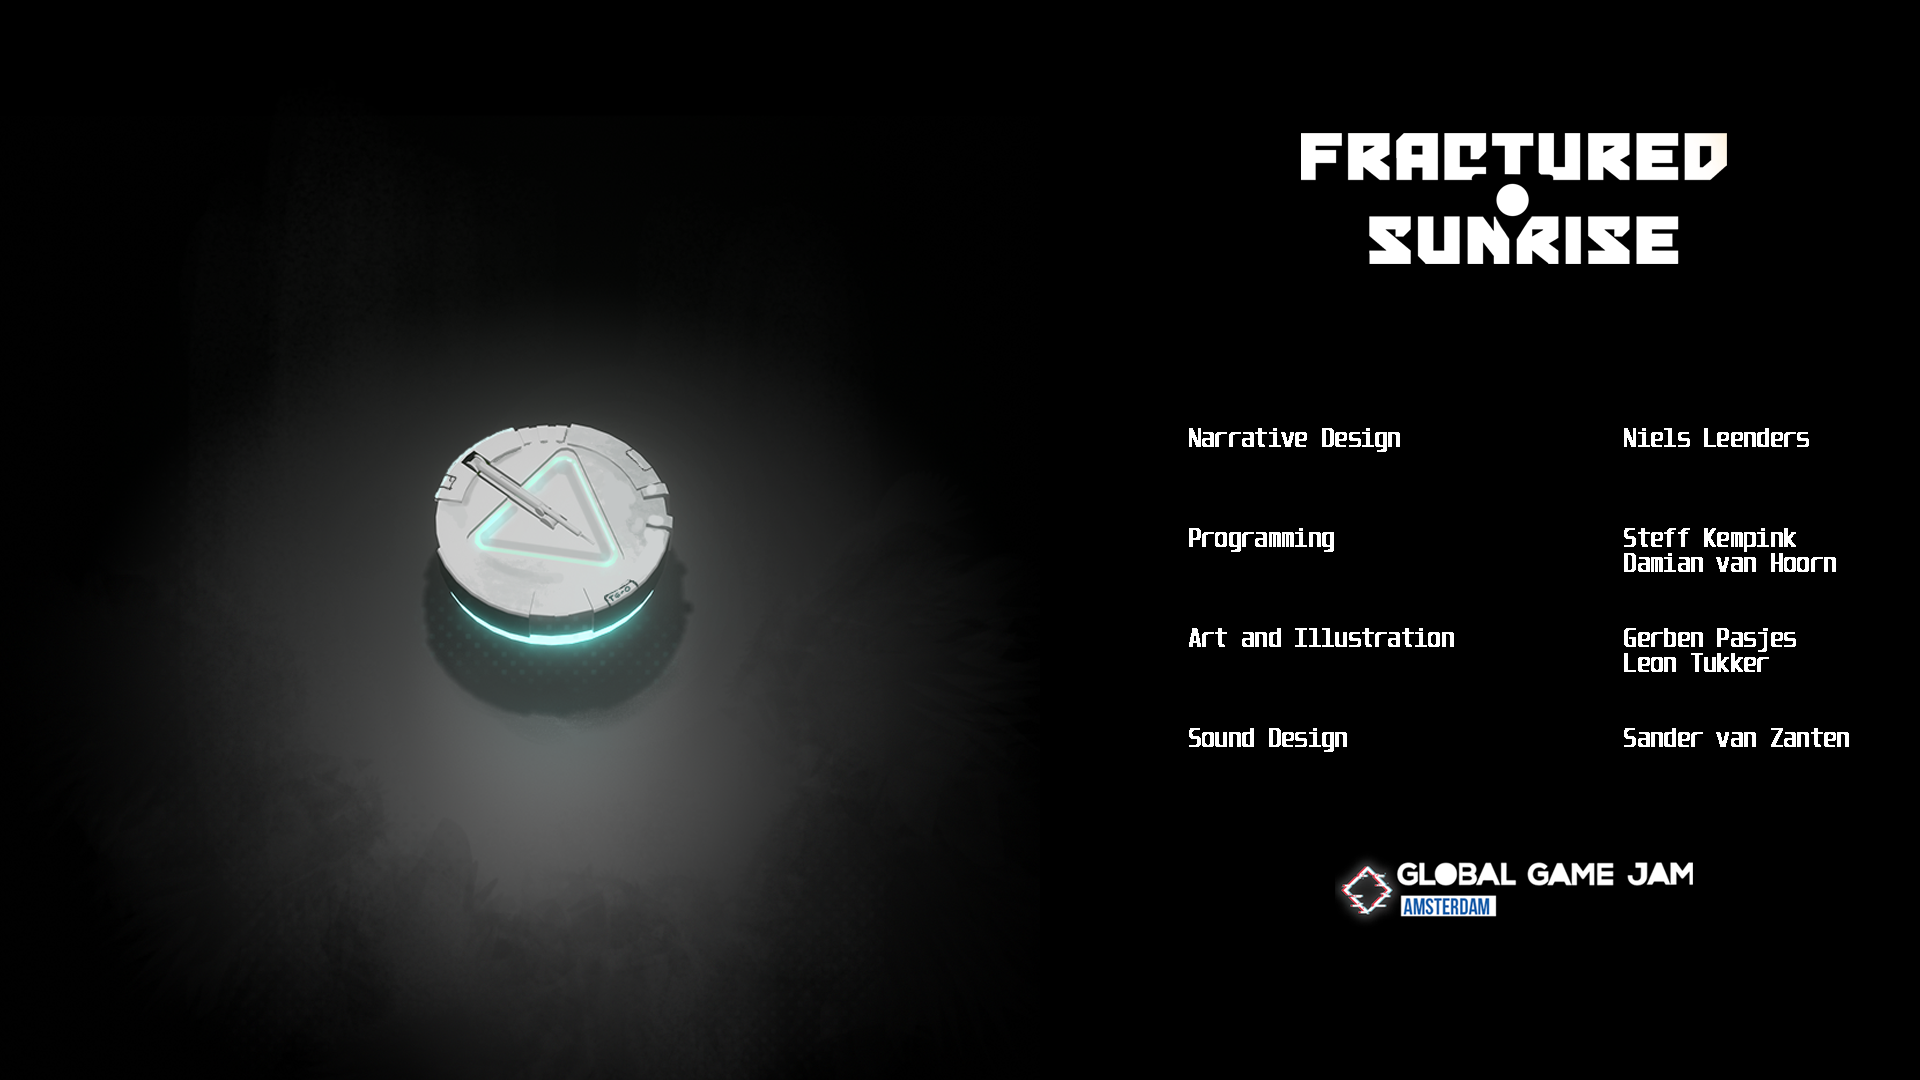
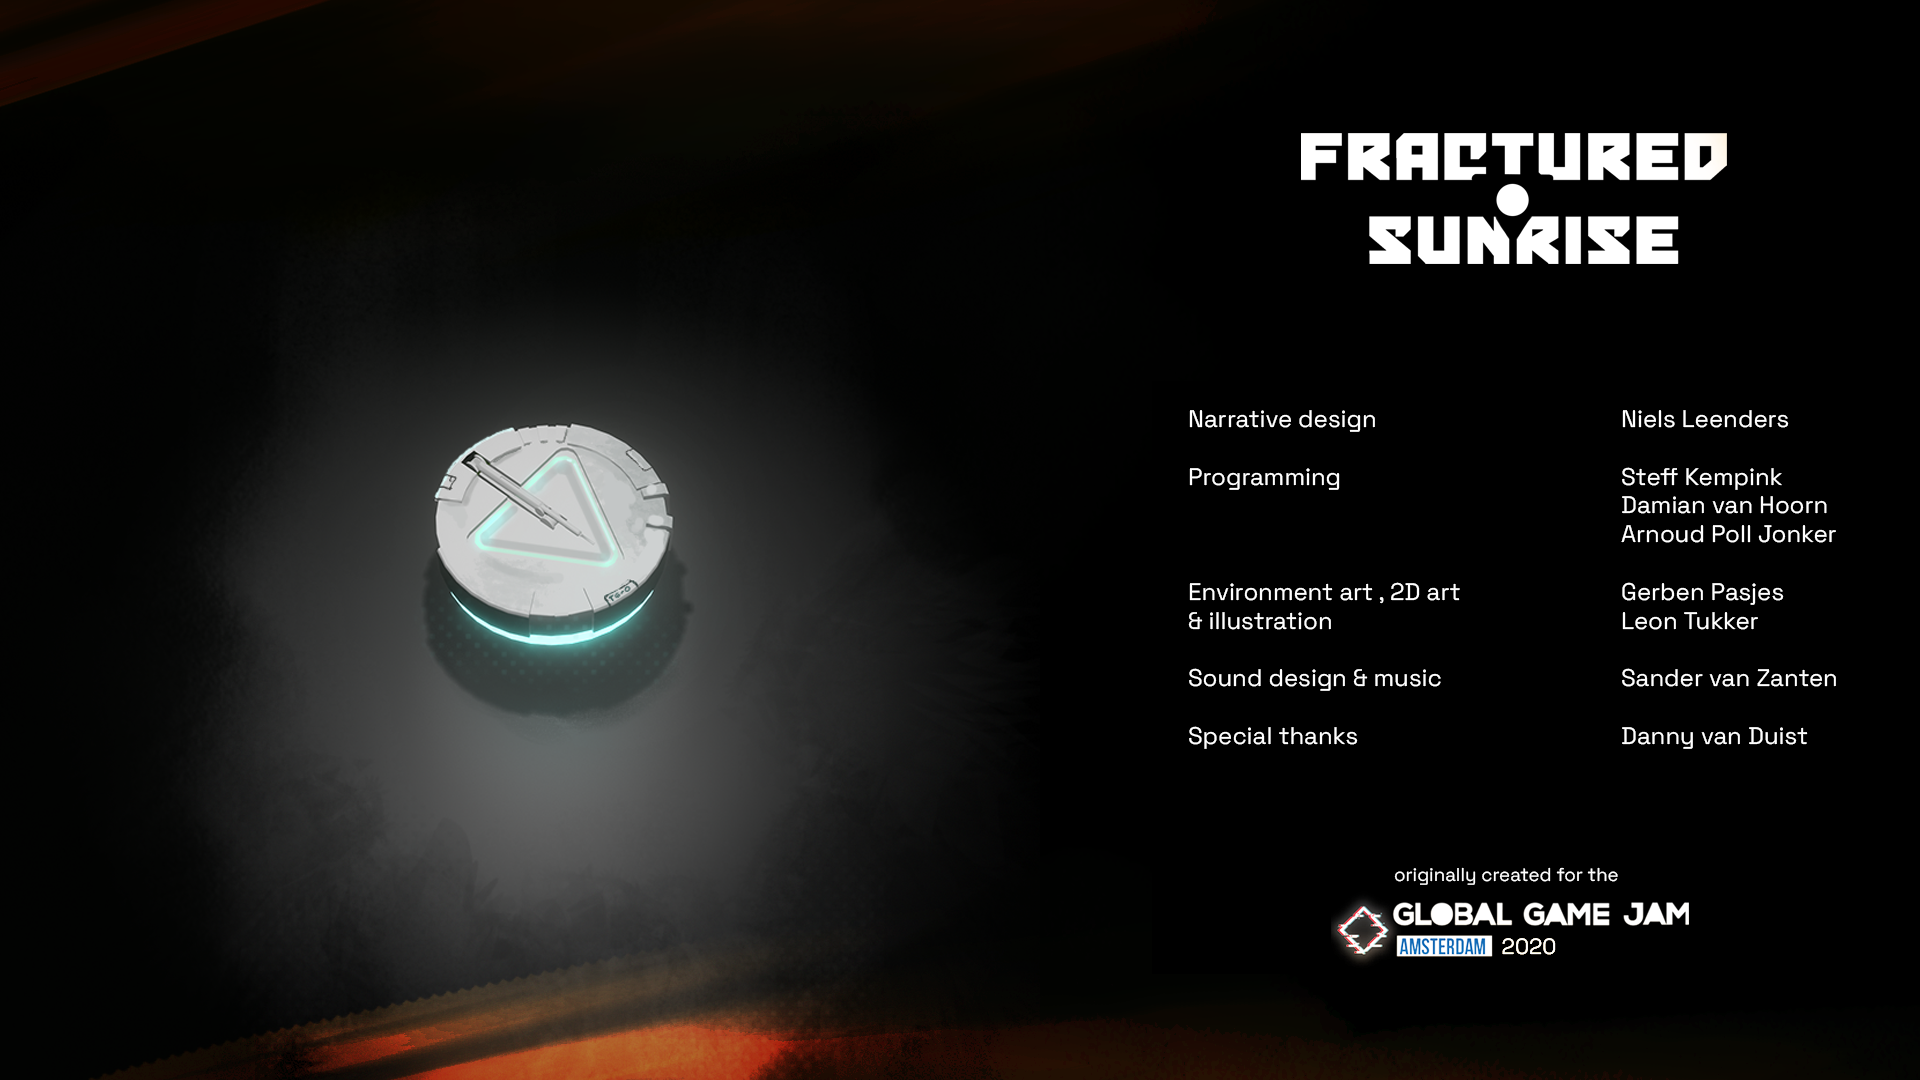
updated credit screens, start screen. fixed LED brightness. Rewrote sneakers on balcony.

diff --git a/GGJ2020_Unity/Assets/GGJ2020/StoryTools/Events/Shoes_A_1.cs b/GGJ2020_Unity/Assets/GGJ2020/StoryTools/Events/Shoes_A_1.cs
@@ -2,266 +2,15 @@ public class Shoes_Interaction : Event
 {
     public override void PlayEvent()
     {
-        Text = "This is SHOES. How can I help you?";
-        EventActor = Actors.Shoes();
-
-        {
-            var choice = NewChoice("CALLS");
-            choice.AddNextEvent<Shoes_CALLS_1>();
-        }
-        {
-            var choice = NewChoice("MESSAGES");
-            choice.AddNextEvent<Shoes_MESSAGES_1>();
-        }
-        {
-            var choice = NewChoice("SETTINGS");
-            choice.AddNextEvent<Shoes_SETTINGS_1>();
-        }
-    }
-}
-
-public class Shoes_MESSAGES_1 : Event
-{
-    public override void PlayEvent()
-    {
-        Text = "OPEN MESSAGE 7:\n13-07-2065 | 03:23\nUser Scott! The update came. I copied it for you: Great news, we’ve completed the analysis for your soul mate creation in the “Perfect Partner” program on “The Glass” Virtual Reality equipment. Return to your device as soon as possible to meet your future! I’m so excited for you, and the result is quite the reveal if I dare say. See you soon User Scott.";
-        EventActor = Actors.Shoes();
-
-        {
-            var choice = NewChoice("…");
-            choice.AddNextEvent<Shoes_MESSAGES_2>();
-        }
-    }
-}
-
-public class Shoes_MESSAGES_2 : Event
-{
-    public override void PlayEvent()
-    {
-        Text = "OPEN MESSAGE 6: FLYING DOUGH delivery\n12-07-2065 | 22:13\nCheck your front door/balcony/roof. You CHICKEN BBQ PIZZA has arrived at your residence. 400 credits will be subtracted from your account upon opening from the package.";
-        EventActor = Actors.Shoes();
-
-        {
-            var choice = NewChoice("…");
-            choice.AddNextEvent<Shoes_MESSAGES_3>();
-        }
-    }
-}
-
-public class Shoes_MESSAGES_3 : Event
-{
-    public override void PlayEvent()
-    {
-        Text = "OPEN MESSAGE 5: FLYING DOUGH delivery.\n11-07-2065 | 03:54\nCheck your front door/balcony/roof. You PEPPERONI PIZZA has arrived at your residence. 300 credits will be subtracted from your account upon opening from the package. ";
-        EventActor = Actors.Shoes();
-
-        {
-            var choice = NewChoice("…");
-            choice.AddNextEvent<Shoes_MESSAGES_4>();
-        }
-    }
-}
-
-public class Shoes_MESSAGES_4 : Event
-{
-    public override void PlayEvent()
-    {
-        Text = "OPEN MESSAGE 4: JEN [UNREAD]\nREALLY? Food is cold. And your double order has arrived. Nice of you to think for both of us. Pepperoni, your favorite. You can see your dinner from the balcony if you’re looking for it. I’m out for the night. ";
-        EventActor = Actors.Shoes();
-
-        {
-            var choice = NewChoice("…");
-            choice.AddNextEvent<Shoes_MESSAGES_5>();
-        }
-    }
-}
-
-public class Shoes_MESSAGES_5 : Event
-{
-    public override void PlayEvent()
-    {
-        Text = "OPEN MESSAGE 2: PERFECT PARTNER\n01-07-2065 | 11:52\nWe’re getting closer to the perfect match. Our latest iteration of your partner has improved your match by 3%, crossing the 90% line. The preferred green eye color and birthmarks help us greatly. Now for the last 10%!";
-        EventActor = Actors.Shoes();
-
-        {
-            var choice = NewChoice("…");
-            choice.AddNextEvent<Shoes_MESSAGES_6>();
-        }
-    }
-}
-
-public class Shoes_MESSAGES_6 : Event
-{
-    public override void PlayEvent()
-    {
-        Text = "OPEN MESSAGE 1: JEN [UNREAD]\n01-07-2065 | 09:13\nHi. Haven’t seen you for a while. How about dinner, just us. And something not out of a box or from the sky. Thai grill? Will be ready at 5. Love you.";
-        EventActor = Actors.Shoes();
-
-        {
-            var choice = NewChoice("…");
-            choice.AddNextEvent<Shoes_Interaction>();
-        }
-    }
-}
-
-public class Shoes_CALLS_1 : Event
-{
-    public override void PlayEvent()
-    {
-        Text = "CALL DATA: EMERGENCY SERVICES\n13-07-2065 | 04:53";
-        EventActor = Actors.Shoes();
-
-        {
-            var choice = NewChoice("…");
-            choice.AddNextEvent<Shoes_CALLS_2>();
-        }
-    }
-}
-
-public class Shoes_CALLS_2 : Event
-{
-    public override void PlayEvent()
-    {
-        Text = "CALL DATA: [speeddial 2] JEN [UNANSWERED]\n\n13-07-2065 | 04:32 | VOICEMAIL RECORDED\nMessage recorded 13th of July at 04:32, from Scott.";
-        EventActor = Actors.Shoes();
-
-        {
-            var choice = NewChoice("ANALYZE AUDIO FILE");
-            choice.AddNextEvent<Shoes_CALLS_3>();
-        }
-    }
-}
-
-public class Shoes_CALLS_3 : Event
-{
-    public override void PlayEvent()
-    {
-        Text = "Jen. I am so sorry about… about everything. I know I haven’t been there. There’s no excuse for missing out, and dinner last… [sighs] two weeks ago. My mind was somewhere else, you know. But I will be here now. I’m done with the VR stuff, the glass, with Alinna. You were always there, I see that now. When are you home? I will cook. No pizza, I promise. Jen? I didn’t know you were home. [phone falls] Jen?!\n\nMessage ended at 04:34.";
-        EventActor = Actors.Shoes();
-
-        {
-            var choice = NewChoice("…");
-            choice.AddNextEvent<Shoes_CALLS_4>();
-        }
-    }
-}
-
-
-public class Shoes_CALLS_4 : Event
-{
-    public override void PlayEvent()
-    {
-        Text = "CALL DATA: [speeddial 1] FLYING DOUCH pizza delivery\n12-07-2065 | 21:59";
-        EventActor = Actors.Shoes();
-
-        {
-            var choice = NewChoice("…");
-            choice.AddNextEvent<Shoes_CALLS_5>();
-        }
-    }
-}
-
-public class Shoes_CALLS_5 : Event
-{
-    public override void PlayEvent()
-    {
-        Text = "CALL DATA: [speeddial 1] FLYING DOUCH pizza delivery\n11-07-2065 | 03:23";
-        EventActor = Actors.Shoes();
-
-        {
-            var choice = NewChoice("…");
-            choice.AddNextEvent<Shoes_CALLS_6>();
-        }
-    }
-}
-
-public class Shoes_CALLS_6 : Event
-{
-    public override void PlayEvent()
-    {
-        Text = "CALL DATA: [speeddial 1] FLYING DOUCH pizza delivery\n01-07-2065 | 17:34";
-        EventActor = Actors.Shoes();
-
-        {
-            var choice = NewChoice("…");
-            choice.AddNextEvent<Shoes_Interaction>();
-        }
-    }
-}
-
-public class Shoes_SETTINGS_1 : Event
-{
-    public override void PlayEvent()
-    {
-        Text = "SETTINGS";
-        EventActor = Actors.Shoes();
-
-        {
-            var choice = NewChoice("ERASE USER DATA");
-            choice.AddNextEvent<Shoes_SETTINGS_2>();
-        }
-    }
-}
-
-public class Shoes_SETTINGS_2 : Event
-{
-    public override void PlayEvent()
-    {
-        Text = "All messages and call data will be erased. Are you sure you want to proceed?";
-        EventActor = Actors.Shoes();
-
-        {
-            var choice = NewChoice("PROCEED");
-            choice.AddNextEvent<Shoes_SETTINGS_3_A>();
-        }
-        {
-            var choice = NewChoice("CANCEL");
-            choice.AddNextEvent<Shoes_SETTINGS_3_B>();
-        }
-    }
-}
-
-public class Shoes_SETTINGS_3_A : Event
-{
-    public override void PlayEvent()
-    {
-        Text = "Please wait when your memories are being erased…\nDone.\nYour phone is a clean slate. ";
-        EventActor = Actors.Shoes();
-
-        {
-            var choice = NewChoice("…");
-            choice.AddNextEvent<Shoes_SETTINGS_3_A_ERASED>();
-        }
-    }
-}
-
-public class Shoes_SETTINGS_3_A_ERASED : Event
-{
-    public override void PlayEvent()
-    {
-        Text = "That’s a big one from the list. Quite the cleaner you prove to be. Now dispose of the SHOES at your Home Station.";
+        Text = "It seems Scott left his shoes here... when he left. How messy.";
         EventActor = Actors.AI_Alinna();
-
         {
-            var choice = NewChoice("affirmative.");
+            var choice = NewChoice();
+            choice.Text = "CLEAN UP";
             choice.OnChoiceSelected += (Choice c) =>
             {
                 State.State_Shoes = E_ThrowawayState.PickedUp;
             };
-        }
-    }
-}
-
-public class Shoes_SETTINGS_3_B : Event
-{
-    public override void PlayEvent()
-    {
-        Text = "Hold on when we cancel your reque-*bzzt*.\nDone.\n\nAll your memories are erased. Your phone is a clean slate. ";
-        EventActor = Actors.Shoes();
-
-        {
-            var choice = NewChoice("…");
-            choice.AddNextEvent<Shoes_SETTINGS_3_A_ERASED>();
         }
     }
 }

diff --git a/GGJ2020_Unity/Assets/GGJ2020/StoryTools/Core/DoorComponent.cs b/GGJ2020_Unity/Assets/GGJ2020/StoryTools/Core/DoorComponent.cs
@@ -50,22 +50,22 @@ public class DoorComponent : MonoBehaviour
         {
             case E_DoorState.Locked:
                 transform.DOLocalMove(_originalLocation, 0.8f, false);
-                _doorIndicatorMaterial.DOColor(new Color(5.5816f, 3.79995f, 0.1008f), "Color_822c43bc6b72482a8a54bfa7a4945922", 0.2f);
+                _doorIndicatorMaterial.DOColor(new Color(2f, 1f, 0.5f), "Color_822c43bc6b72482a8a54bfa7a4945922", 0.2f);
 
                 break;
             case E_DoorState.Unlocked:
                 transform.DOLocalMove(_originalLocation, 0.8f, false);
-                _doorIndicatorMaterial.DOColor(new Color(1.882959f, 5.648877f, 52.45385f), "Color_822c43bc6b72482a8a54bfa7a4945922", 0.4f);
+                _doorIndicatorMaterial.DOColor(new Color(0f, .8f, 2.0f), "Color_822c43bc6b72482a8a54bfa7a4945922", 0.4f);
 
                 break;
             case E_DoorState.Open:
                 transform.DOLocalMove(_originalLocation + new Vector3(0, 2.213f, 0), 1.2f, false).SetEase(Ease.InCubic);
-                _doorIndicatorMaterial.DOColor(new Color(1.882959f, 5.648877f, 52.45385f), "Color_822c43bc6b72482a8a54bfa7a4945922", 0.4f);
+                _doorIndicatorMaterial.DOColor(new Color(0f, 1f, 2.5f), "Color_822c43bc6b72482a8a54bfa7a4945922", 0.4f);
 
                 break;
             case E_DoorState.ShutHard:
                 transform.DOLocalMove(_originalLocation, 0.35f, false).SetEase(Ease.OutBack);
-                _doorIndicatorMaterial.DOColor(new Color(46.246f, 0.6544f, 0.6544f), "Color_822c43bc6b72482a8a54bfa7a4945922", 0.2f);
+                _doorIndicatorMaterial.DOColor(new Color(3f, .5f, 0f), "Color_822c43bc6b72482a8a54bfa7a4945922", 0.2f);
 
                 break;
             default:
